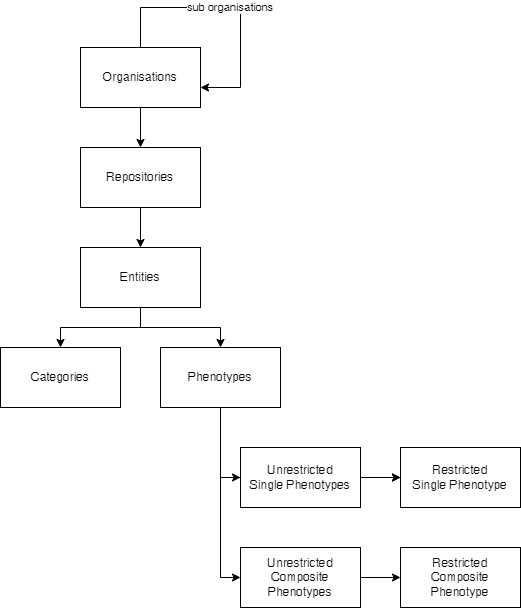
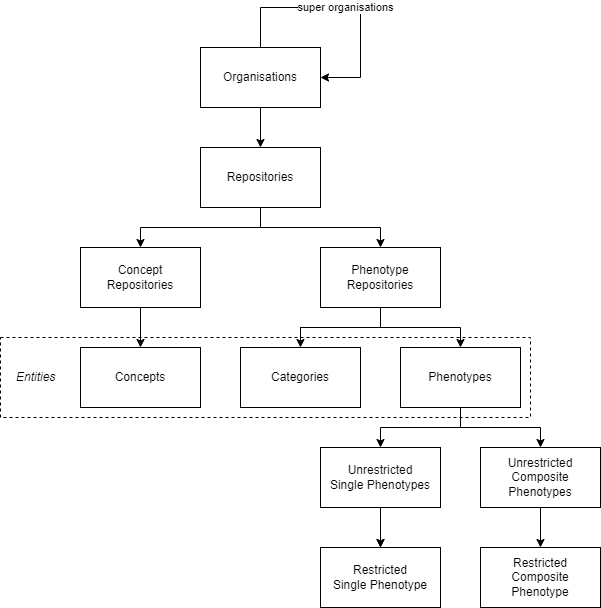
Add repository type documentation

diff --git a/docs/user-manual/content-types.md b/docs/user-manual/content-types.md
@@ -29,10 +29,21 @@ Organisations can be used to store research groups, institutions or (scientific)
 
 ## Repositories
 
-Repositories are one of the main components of the TOP Framework. They hold all all types of entities.
+Repositories are one of the main components of the TOP Framework. Depending on their type, repositories can hold different entity types.
+We distinguish between the following types:
 
-We recommend you to create a repository for each [phenotype algorithm](#phenotype-algorithm) you want to model.
+### Phenotype repository
+
+In this type of repository, one can store phenotype definitions.
+
+We recommend you to create a phenotype repository for each [phenotype algorithm](#phenotype-algorithm) you want to model.
 By capsulising algorithms that way, you make sure that they are more comprehensible and can be find easily.
+
+### Concept repository
+
+In contrast to the phenotype repository type, this type can only hold concepts.
+The purpose if this repository type is to build a collection of concepts that can be used to query for specific information, contents or documents.
+Consider a large indexed set of documents, one wants to search for a subset that addresses some topic.
 
 ## Entities
 
@@ -54,7 +65,7 @@ You can find more information about the different entity types and the underlyin
 
 > Uciteli A, Beger C, Kirsten T, Meineke FA, Herre H. Ontological Modelling and Reasoning of Phenotypes. CEUR Workshop Proceedings. 2019 Sep;2570. issn: 1613-0073. http://ceur-ws.org/Vol-2518/paper-ODLS11.pdf.
 
-### Categories
+### Categories and Concepts
 
 Use categories to structure repositories. They are similar to folders in a file system and serve no other purpose than organising content.
 
